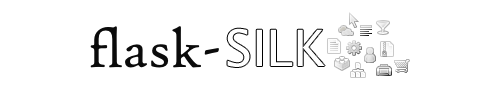
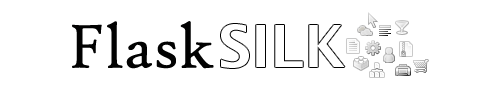
Rename to "Flask-Silk" for consistency.

Changed region(s): [[0.12, 0.1556, 0.87, 0.8667]]

diff --git a/docs/conf.py b/docs/conf.py
@@ -1,6 +1,6 @@
 # -*- coding: utf-8 -*-
 #
-# flask-silk documentation build configuration file, created by
+# Flask-Silk documentation build configuration file, created by
 # sphinx-quickstart on Wed Sep  1 22:13:48 2010.
 #
 # This file is execfile()d with the current directory set to its containing dir.
@@ -41,7 +41,7 @@ source_suffix = '.rst'
 master_doc = 'index'
 
 # General information about the project.
-project = u'flask-silk'
+project = u'Flask-Silk'
 copyright = u'2010, Lee Heung-sub'
 
 # The version info for the project you're documenting, acts as replacement for
@@ -168,7 +168,7 @@ html_static_path = ['_static']
 #html_file_suffix = None
 
 # Output file base name for HTML help builder.
-htmlhelp_basename = 'flask-silkdoc'
+htmlhelp_basename = 'Flask-Silkdoc'
 
 
 # -- Options for LaTeX output --------------------------------------------------
@@ -182,7 +182,7 @@ htmlhelp_basename = 'flask-silkdoc'
 # Grouping the document tree into LaTeX files. List of tuples
 # (source start file, target name, title, author, documentclass [howto/manual]).
 latex_documents = [
-  ('index', 'flask-silk.tex', u'flask-silk Documentation',
+  ('index', 'Flask-Silk.tex', u'Flask-Silk Documentation',
    u'Lee Heung-sub', 'manual'),
 ]
 
@@ -215,6 +215,6 @@ latex_documents = [
 # One entry per manual page. List of tuples
 # (source start file, name, description, authors, manual section).
 man_pages = [
-    ('index', 'flask-silk', u'flask-silk Documentation',
+    ('index', 'flask-silk', u'Flask-Silk Documentation',
      [u'Lee Heung-sub'], 1)
 ]

diff --git a/setup.py b/setup.py
@@ -1,17 +1,17 @@
 """
-flask-silk
+Flask-Silk
 ----------
 
-Adds `silk icons`_ to your Flask application or module, or extension.
+Adds `silk`_ icons to your Flask application or module, or extension.
 
 Links
 `````
 
-* `documentation <http://packages.python.org/flask-silk>`_
+* `documentation <http://packages.python.org/Flask-Silk>`_
 * `development version
   <http://github.com/sublee/flask-silk/zipball/master#egg=flask-silk-dev>`_
 
-.. _silk icons: http://www.famfamfam.com/lab/icons/silk
+.. _silk: http://www.famfamfam.com/lab/icons/silk
 
 """
 try:
@@ -21,7 +21,7 @@ except ImportError:
 
 
 setup(
-    name="flask-silk",
+    name="Flask-Silk",
     version="0.1.0",
     url="http://github.com/sublee/flask-silk",
     license="BSD",

diff --git a/docs/index.rst b/docs/index.rst
@@ -1,14 +1,14 @@
-flask-silk
+Flask-Silk
 ~~~~~~~~~~
 
 .. module:: flaskext.silk
 
-flask-silk is small Flask extension. It adds `silk`_ icons to your Flask
+Flask-Silk is small Flask extension. It adds `silk`_ icons to your Flask
 application or module, or extension!
 
 Silk is very awesome. It will be good for your Flask extensions. But if
 someone use many Flask extensions which contains silk icons, they will lose
-their storage space too much. They can solve the problem with flask-silk.
+their storage space too much. They can solve the problem with Flask-Silk.
 
 .. note::
    Silk is licensed under a `Creative Commons Attribution 2.5 License.
